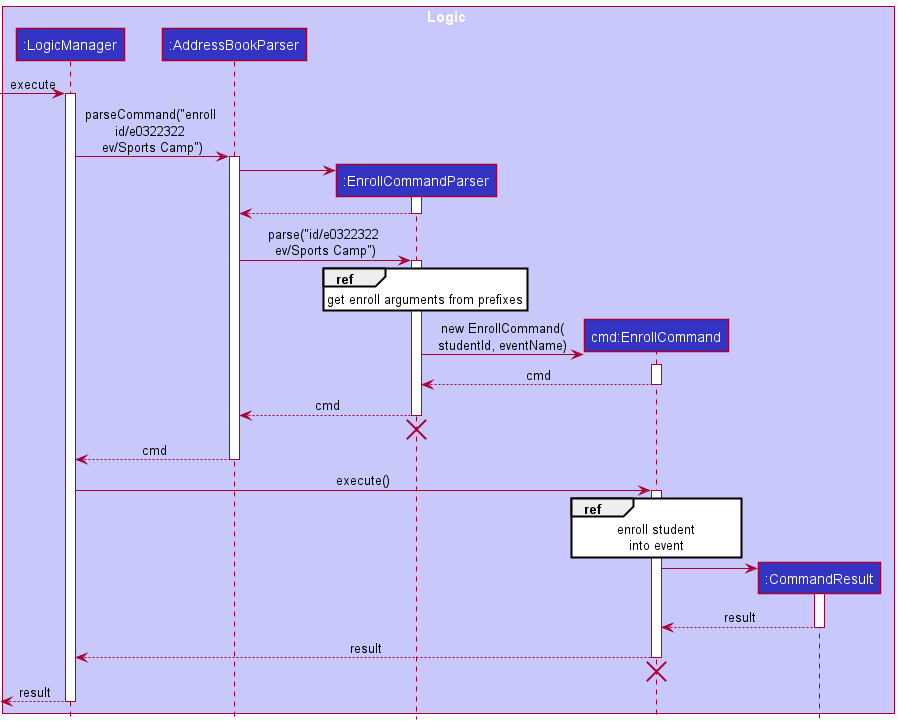
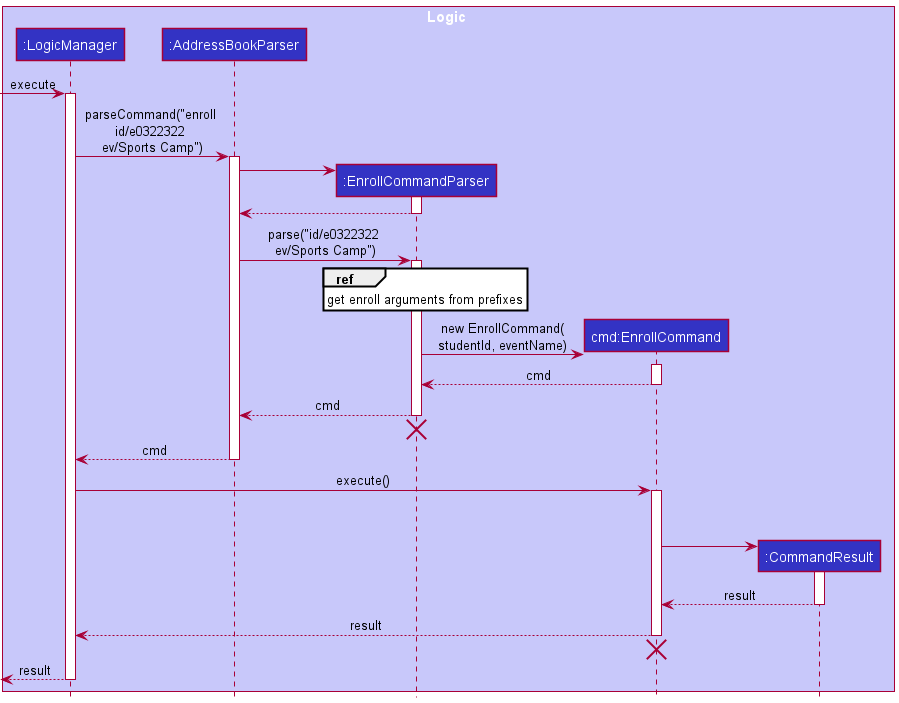
Add EnrollActivityDiagram into DG

diff --git a/docs/DeveloperGuide.md b/docs/DeveloperGuide.md
@@ -221,13 +221,17 @@ The following sequence diagram shows how the enroll operation works:
 ![EnrollSequenceDiagram](images/EnrollSequenceDiagram.png)
 <br>_Sequence diagram for enrolling a student into an event_
 
-* Note that LogicManager is called using execute("enroll \nid/e0322322 \nev/Sports Camp"). This information was truncated to reduce clutter in the diagram.<br>
+* Note that LogicManager is called using execute("enroll id/e0322322 ev/Sports Camp"). This information was truncated to reduce clutter in the diagram.<br>
+* For details of how the EnrollCommand internally enrolls a student into an event internally, please check out the activity diagram shown below.
 
 The following sequence diagram shows how a enroll operation gets its arguments from the prefixes:
 
 ![EnrollParseArguments](images/EnrollParseArguments.png)
-_Sequence diagram for parsing enroll command arguments_
+<br>_Sequence diagram for parsing enroll command arguments_
 
+The following activity diagram shows how the enroll command enrolls a student into an event:
+![EnrollActivityDiagram](images/EnrollActivityDiagram.png)
+<br>_Activity diagram to show how the enroll command enrolls a student into an event_
 
 
 

diff --git a/docs/UserGuide.md b/docs/UserGuide.md
@@ -75,7 +75,7 @@ via the terminal as well (but double-clicking should work fine).
    ![Ui](images/Ui.png)
 
 
-**nustracker** is now up and running on your system! To getting started, we suggest this flow:
+**nustracker** is now up and running on your system! To get started, we suggest this flow:
 1. [General Layout](#general-layout)
 2. [Basics of nustracker](#basics-of-nustracker)
 3. [List of Commands](#student-commands)
